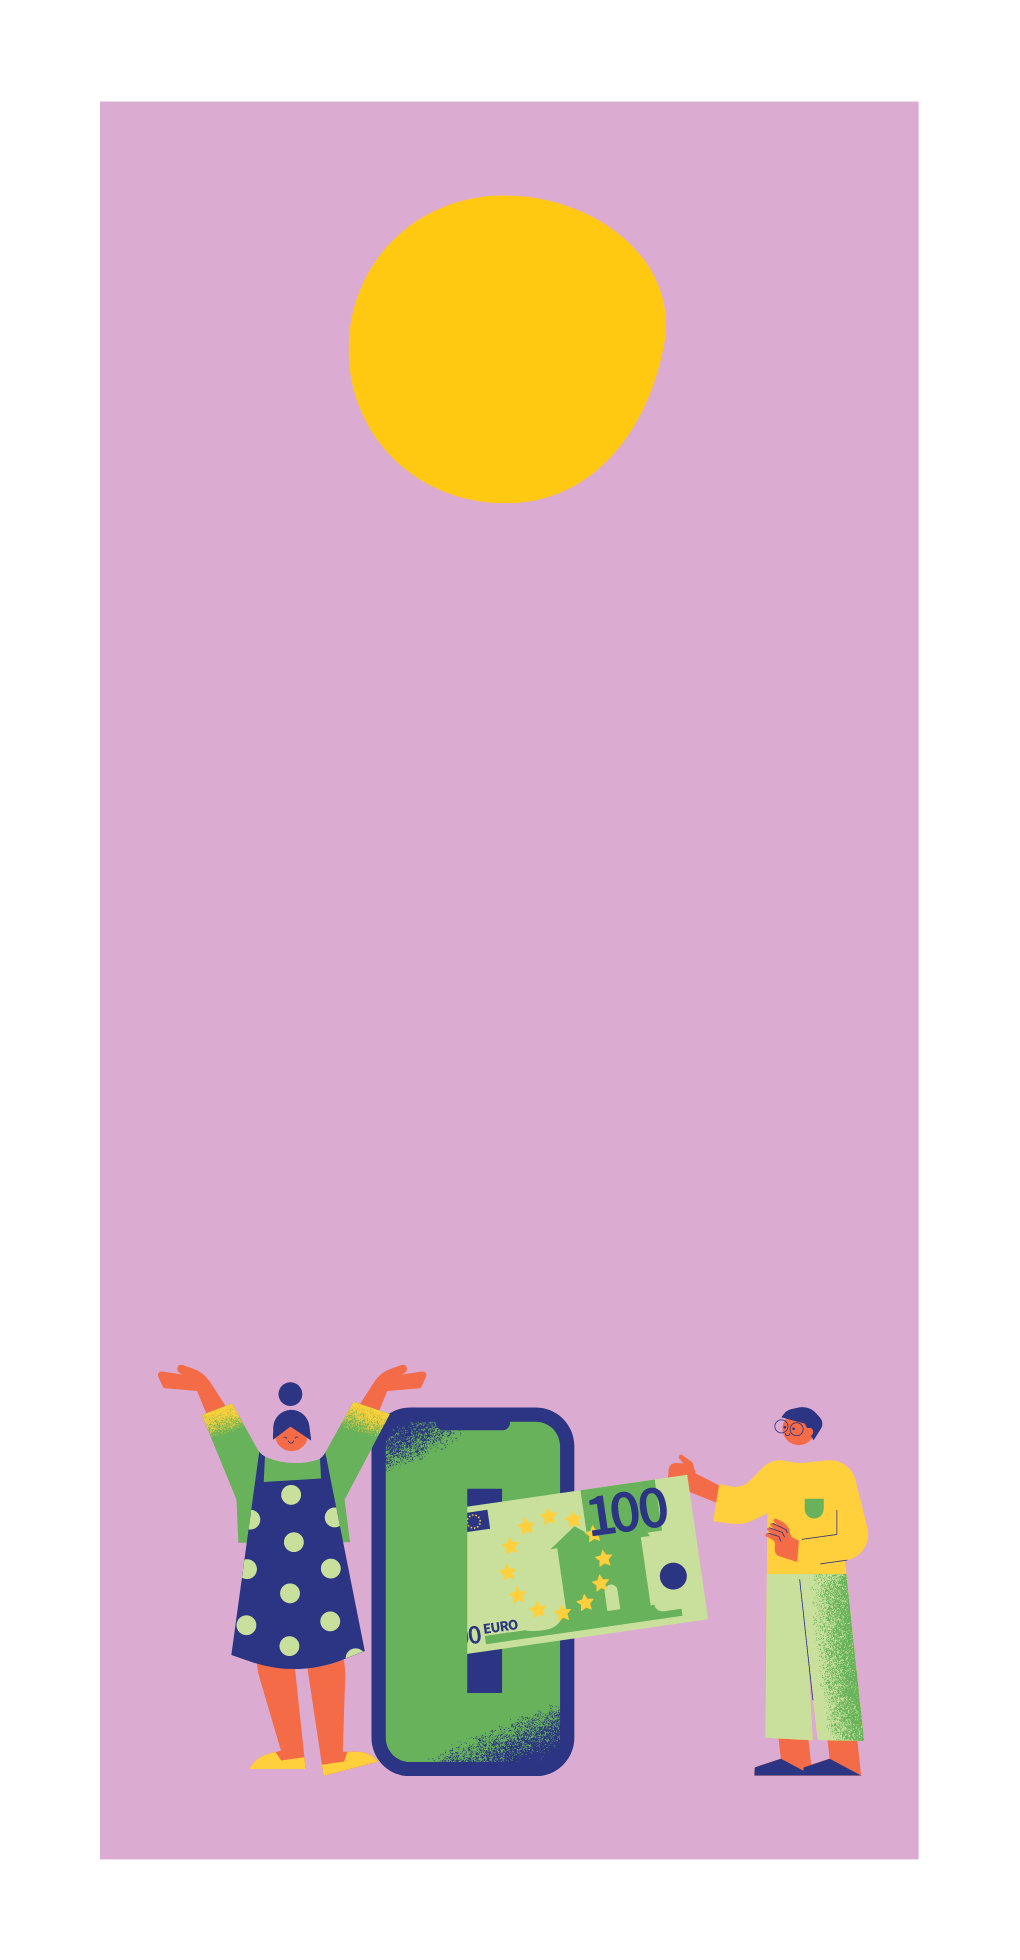
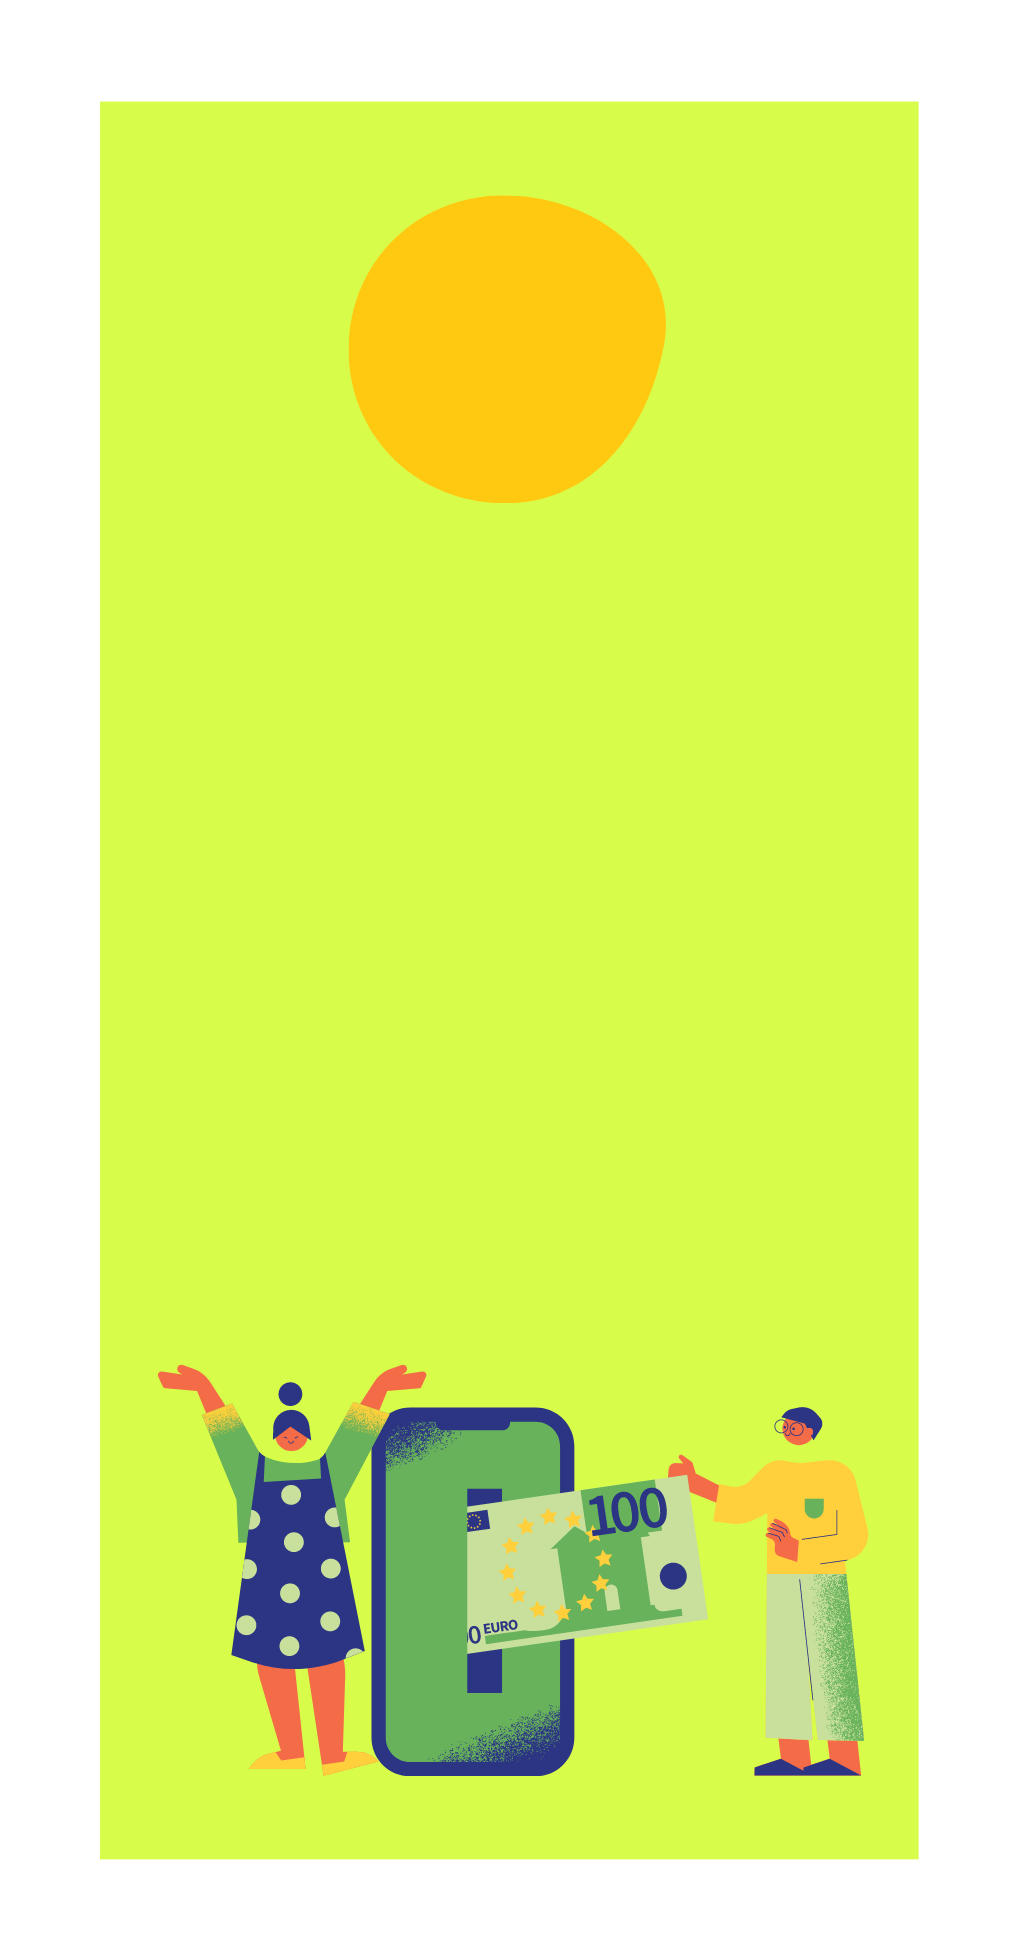
Update with interest rate

diff --git a/index.html b/index.html
@@ -81,7 +81,7 @@
       </div>
     </section>
     <section
-      class="bg-pink bg-[url(./hero-3.png)] sm:bg-none sm:bg-pink bg-cover bg-center p-8 sm:w-screen sm:flex sm:justify-center"
+      class="bg-yellow bg-[url(./hero-3.png)] sm:bg-none sm:bg-yellow bg-cover bg-center p-8 sm:w-screen sm:flex sm:justify-center"
     >
       <div class="w-full sm:max-w-sm">
         <h1
@@ -93,7 +93,9 @@
       </div>
       <img src="./hero-3.png" class="hidden max-w-sm sm:block" />
     </section>
-    <section class="bg-darkBlue p-8 py-16 sm:w-1/2 md:w-1/2 lg:w-1/2 xl:w-1/2 md:pl-20">
+    <section
+      class="bg-darkBlue p-8 py-16 sm:w-1/2 md:w-1/2 lg:w-1/2 xl:w-1/2 md:pl-20"
+    >
       <h1 class="text-yellow font-bold text-4xl text-left text-white mb-10">
         Enter Your Budget
       </h1>
@@ -117,12 +119,41 @@
             <option value="monthly">Monthly</option>
           </select>
           <label for="interest-rate">Annual Interest Rate (in %)</label>
-          <input
-            type="number"
-            class="rounded rounded-full bg-slate-200 text-gray-900"
+          <select
             id="interest-rate"
-            step="0.01"
-          />
+            class="p-[10px] rounded rounded-lg bg-slate-200 text-gray-900"
+          >
+            <option value="own-rate">Use Your Own Rate</option>
+            <option value="avg-prime-10">
+              3.30% - Use Canada Average Prime Rate in last 10 Years*
+            </option>
+            <option value="avg-prime-20">
+              3.67% - Use Canada Average Prime Rate in last 20 Years*
+            </option>
+            <option value="lowest-prime-10">
+              2.45% - Use Canada Lowest Prime Rate in last 10 Years*
+            </option>
+            <option value="lowest-prime-20">
+              2.25% - Use Canada Lowest Prime Rate in last 20 Years*
+            </option>
+            <option value="highest-prime-10">
+              6.7% - Use Canada Highest Prime Rate in last 10 Years*
+            </option>
+            <option value="highest-prime-20">
+              6.7% - Use Canada Highest Prime Rate in last 20 Years*
+            </option>
+          </select>
+          <div id="interest-rate-input-container">
+            <label for="interest-rate-input"
+              >Enter Your Interest Rate (in %)</label
+            >
+            <input
+              type="number"
+              class="rounded rounded-full bg-slate-200 text-gray-900"
+              id="interest-rate-input"
+              step="0.01"
+            />
+          </div>
           <label for="loan-term">Loan Term (in years):</label>
           <input
             type="number"
@@ -143,6 +174,16 @@
         >
           Calculate
         </button>
+        <p class="text-white mt-10 font-semibold text-sm">
+          * Source of Prime Rates Used as of June 2023:
+          <a
+            class="underline"
+            href="https://wowa.ca/banks/prime-rates-canada"
+            target="_blank"
+            rel="noopener noreferrer"
+            >https://wowa.ca/banks/prime-rates-canada</a
+          >
+        </p>
       </form>
     </section>
 

diff --git a/script.js b/script.js
@@ -14,17 +14,16 @@ tailwind.config = {
 
 const sr = ScrollReveal({
   reset: true, // Reset the animation when scrolling past the element
-  distance: '100px', // Distance the element moves during the animation
+  distance: "100px", // Distance the element moves during the animation
   duration: 1000, // Duration of the animation (in milliseconds)
-  easing: 'ease-out', // Easing function applied to the animation
+  easing: "ease-out", // Easing function applied to the animation
   viewFactor: 0.2, // Percentage of the element's visibility required to trigger the animation
 });
 
-sr.reveal('.animated', {
-  origin: 'top', // Starting position of the element
+sr.reveal(".animated", {
+  origin: "top", // Starting position of the element
   delay: 100, // Delay before the animation starts (in milliseconds)
 });
-
 
 const form = document.getElementById("calculator-form");
 const resultDiv = document.getElementById("result");
@@ -36,8 +35,9 @@ form.addEventListener("submit", function (event) {
   );
   const paymentFrequency = document.getElementById("payment-frequency").value;
   const interestRate = parseFloat(
-    document.getElementById("interest-rate").value
+    getInterestRate()
   );
+  console.log("interest rate selected:", interestRate)
   const loanTerm = parseFloat(document.getElementById("loan-term").value);
   const downPayment = parseFloat(document.getElementById("down-payment").value);
 
@@ -63,7 +63,6 @@ form.addEventListener("submit", function (event) {
   const formattedAffordablePurchasePrice =
     affordablePurchasePrice.toLocaleString("en-US", options);
   const formattedLoanAmount = loanAmount.toLocaleString("en-US", options);
-  const resultDiv = document.getElementById("result");
   const affordablePurchasePriceElement = document.getElementById(
     "affordablePurchasePrice"
   );
@@ -78,7 +77,6 @@ form.addEventListener("submit", function (event) {
     (downPayment / affordablePurchasePrice) *
     100
   ).toFixed(2)}%`;
-
 });
 
 function calculateLoanAmount(
@@ -111,4 +109,38 @@ function calculateAffordablePurchasePrice(loanAmount, downPayment) {
   return affordablePurchasePrice;
 }
 
+const interestRateSelect = document.getElementById("interest-rate");
+const interestRateInputContainer = document.getElementById(
+  "interest-rate-input-container"
+);
 
+interestRateSelect.addEventListener("change", function () {
+  if (interestRateSelect.value === "own-rate") {
+    interestRateInputContainer.style.display = "block";
+  } else {
+    interestRateInputContainer.style.display = "none";
+  }
+});
+
+function getInterestRate() {
+  const interestRateSelect = document.getElementById("interest-rate");
+  switch (interestRateSelect.value) {
+    case "own-rate":
+      return document.getElementById("interest-rate-input").value;
+    case "avg-prime-10":
+      return 3.30;
+    case "avg-prime-20":
+      return 3.67;
+
+    case "lowest-prime-10":
+      return 2.45
+
+    case "lowest-prime-20":
+      return 2.25
+    case "highest-prime-10":
+      return 6.7
+
+    case "highest-prime-20":
+      return 6.7
+  }
+}
